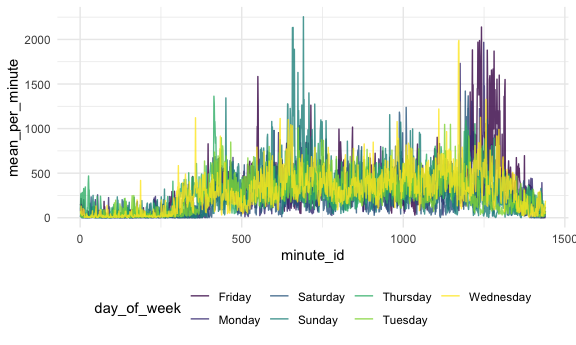
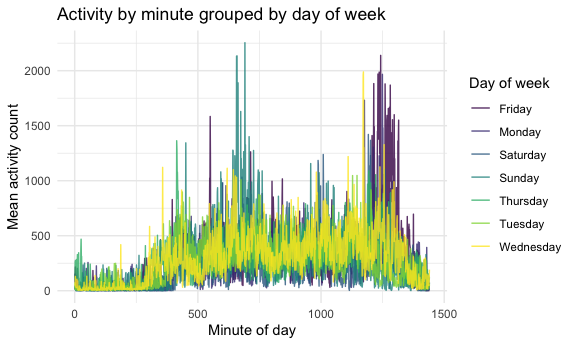
Fixed graph labels

diff --git a/p8105_hw3_zak2132.md b/p8105_hw3_zak2132.md
@@ -1009,8 +1009,9 @@ between 8pm and 9pm) and on Sunday around 800 minutes into the day
 of the week until several hours into the morning (\~400 minutes into the
 day, which is between 6am and 7am).
 
-I would prefer to group by day of week first and then find the mean at a
-given minute during the day, and plot that over time, like so:
+As an aside, I would prefer to group by day of week first and then find
+the mean at a given minute during the day, and plot that over time, like
+so:
 
 ``` r
 accel_df %>% 
@@ -1019,7 +1020,14 @@ accel_df %>%
             mean_per_minute = mean(activity_count)
       ) %>% 
       ggplot(aes(x = minute_id, y = mean_per_minute, color = day_of_week)) + 
-      geom_line(alpha = 0.8)
+      geom_line(alpha = 0.8) +
+      labs(
+            x = "Minute of day",
+            y = "Mean activity count",
+            title = "Activity by minute grouped by day of week",
+            color = "Day of week"
+      ) + 
+      theme(legend.position = "right")
 ```
 
 <img src="p8105_hw3_zak2132_files/figure-gfm/24h time course but grouped and averaged by day of week-1.png" width="90%" />
